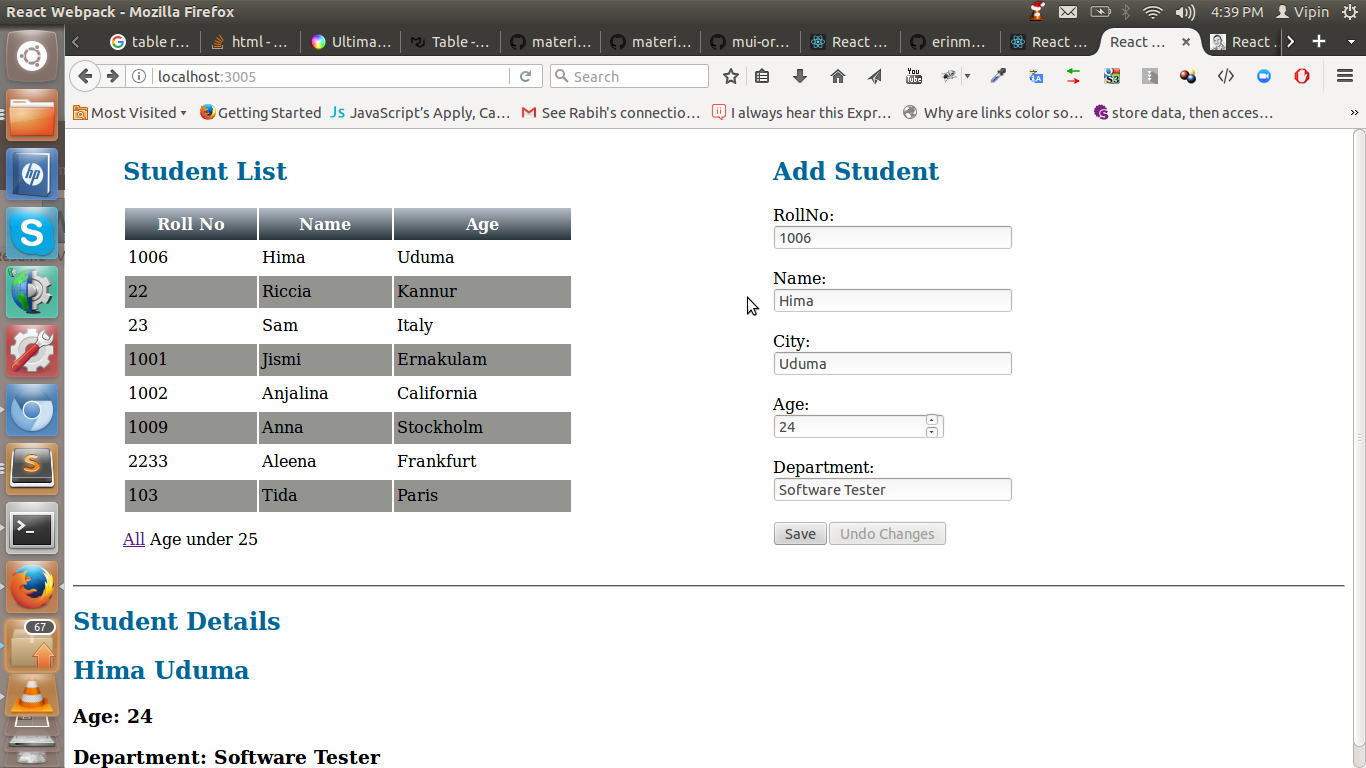
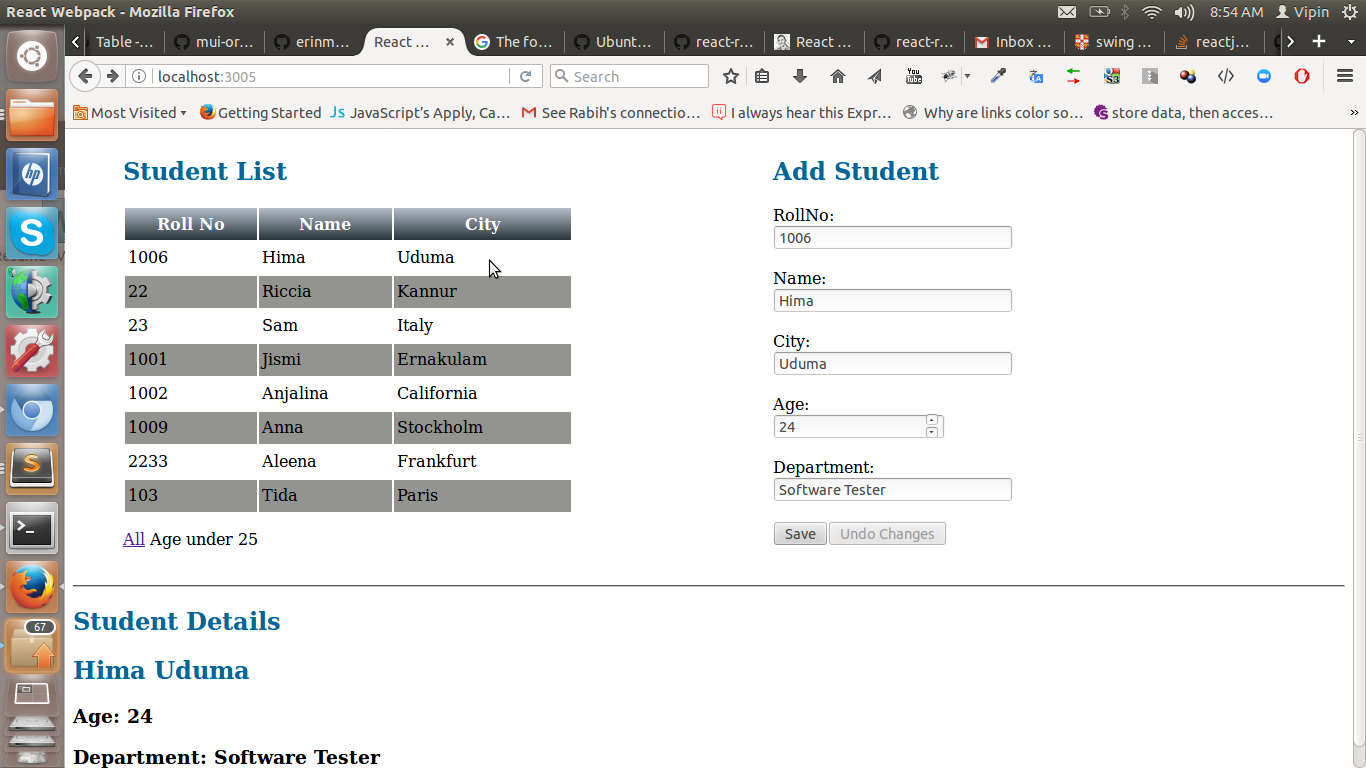
CHANGE: table label change

Changed region(s): [[0.0615, 0.0, 0.9531, 0.0938], [0.0, 0.875, 0.0615, 0.9688], [0.3382, 0.2812, 0.369, 0.3125]]

diff --git a/client/dev/js/containers/student-list.js b/client/dev/js/containers/student-list.js
@@ -34,7 +34,7 @@ class StudentList extends Component {
         return (
             <div>
                 <table className="std-table">
-                <tr><th>Roll No</th><th>Name</th><th>Age</th></tr>
+                <tr><th>Roll No</th><th>Name</th><th>City</th></tr>
                 {this.renderList()}
                 </table>
             </div>
